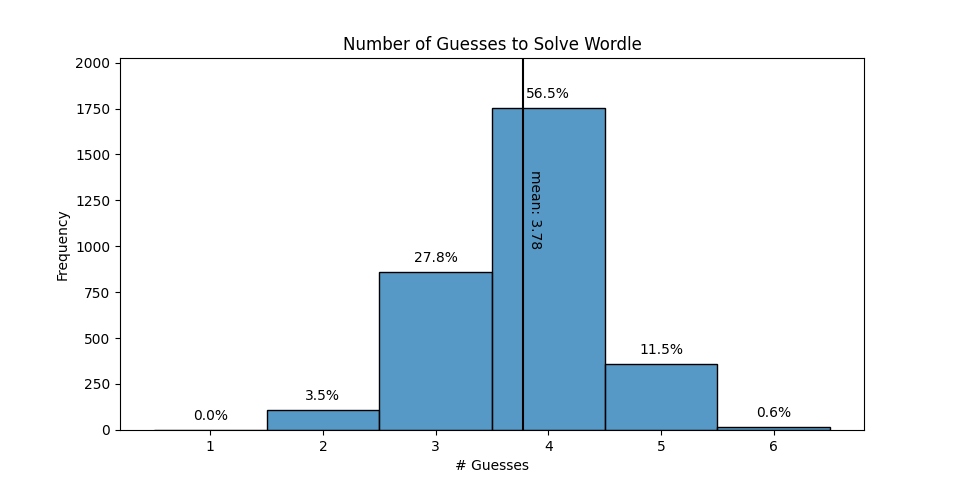
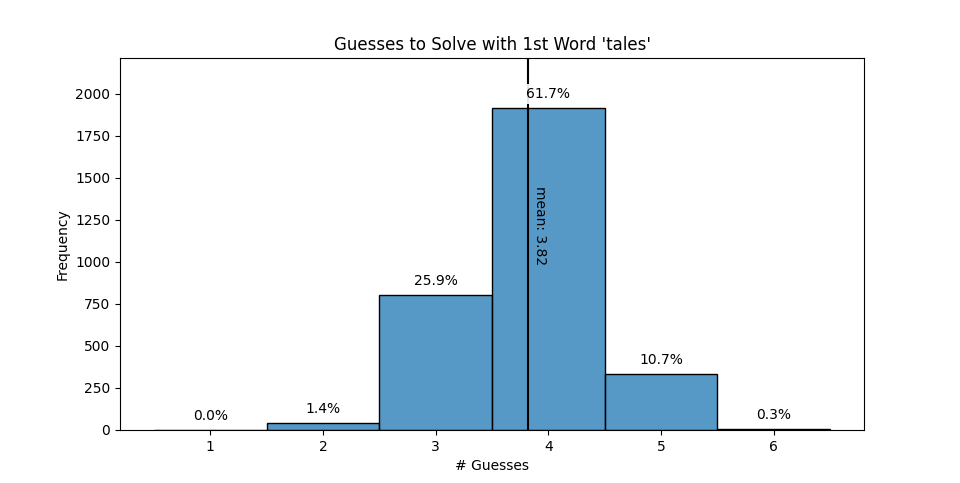
average num guess analysis

diff --git a/plot_soln_depth.py b/plot_soln_depth.py
@@ -1,0 +1,133 @@
+from utils import *
+import seaborn as sns
+import matplotlib.pyplot as plt
+import numpy as np
+import json
+
+dict5 = []
+with open('assets/words.txt') as f:
+    for line in f:
+        dict5.append(line.strip().split(',')[0])
+
+soln_depth_list = []
+with open('data/soln_step_lengths.json', 'r') as file:
+    for line in file:
+        soln_depth_list.append(json.loads(line))
+
+soln_depth_dict = {key: depth for key,depth in soln_depth_list}
+
+mean_depths = {}
+for w in dict5:
+    depths_count = soln_depth_dict[w]
+
+    depths_list = [([int(i)] * depths_count[i]) for i in depths_count]
+    depths = []
+    for d in depths_list:
+        depths.extend(d)
+    mean_depth = np.mean(depths)
+    mean_depths[w] = mean_depth
+
+best_worst_case_words = []
+depth_7_words = []
+six_size = len(dict5)
+for w in dict5:
+    depths_count = soln_depth_dict[w]
+    if '7' in depths_count:
+        depth_7_words.append(w)
+    if '6' in depths_count:
+        six_depth = depths_count['6']
+        if six_depth == six_size:
+            best_worst_case_words.append(w)
+        if six_depth < six_size:
+            six_size = six_depth
+            best_worst_case_words = [w]
+
+print("Best words by worst case")
+for w in best_worst_case_words:
+    print([w, soln_depth_dict[w], mean_depths[w]])
+
+print("Best words on average")
+words_by_mean_depth = sorted(mean_depths.items(), key=lambda item: item[1])
+for w in words_by_mean_depth[0:10]:
+    print([w[0], soln_depth_dict[w[0]], mean_depths[w[0]]])
+
+print("Words that don't win")
+print(str(len(depth_7_words))+" of "+str(len(dict5)))
+for w in depth_7_words:
+    print([w, soln_depth_dict[w], mean_depths[w]])
+
+print("Worst words on average")
+for w in words_by_mean_depth[-10:]:
+    print([w[0], soln_depth_dict[w[0]], mean_depths[w[0]]])
+
+plot_word = words_by_mean_depth[0][0]
+depths_count = soln_depth_dict[plot_word]
+
+depths_list = [([int(i)] * depths_count[i]) for i in depths_count]
+depths = []
+for d in depths_list:
+    depths.extend(d)
+mean_depth = np.mean(depths)
+
+plt.figure(figsize=(10, 6))
+hist = sns.histplot(data=depths, bins=6, discrete=True)
+y_bottom, y_top = hist.get_ylim()
+padding = (y_top - y_bottom) * 0.1
+hist.set_ylim(y_bottom, y_top + padding)
+text_place = np.mean(sorted(hist.get_yticks())[0:-1])
+
+plt.axvline(mean_depth, 0, 1, color='black')
+hist.annotate("mean: "+'{0:.2f}'.format(mean_depth), xy=(mean_depth + 0.1,text_place), horizontalalignment = 'center', rotation=270)
+for p in hist.patches:
+    number_label = int(p.get_height())/len(depths)
+    hist.annotate(
+        f'{number_label:.1%}',
+        (p.get_x() + p.get_width() / 2., p.get_height()),
+        ha='center',
+        va='center',
+        bbox=dict(facecolor='white', alpha=0.9, edgecolor='white', linewidth=0, pad=2),
+        xytext=(0, 10),
+        textcoords='offset points'
+    )
+
+plt.title("Guesses to Solve with 1st Word '"+plot_word+"'")
+plt.xlabel('# Guesses')
+plt.ylabel('Frequency')
+plt.grid(False)
+plt.show()
+
+plot_word = 'queue'
+depths_count = soln_depth_dict[plot_word]
+
+depths_list = [([int(i)] * depths_count[i]) for i in depths_count]
+depths = []
+for d in depths_list:
+    depths.extend(d)
+mean_depth = np.mean(depths)
+
+plt.figure(figsize=(10, 6))
+hist = sns.histplot(data=depths, bins=6, discrete=True)
+y_bottom, y_top = hist.get_ylim()
+padding = (y_top - y_bottom) * 0.1
+hist.set_ylim(y_bottom, y_top + padding)
+text_place = np.mean(sorted(hist.get_yticks())[0:-1])
+
+plt.axvline(mean_depth, 0, 1, color='black')
+hist.annotate("mean: "+'{0:.2f}'.format(mean_depth), xy=(mean_depth + 0.1,text_place), horizontalalignment = 'center', rotation=270)
+for p in hist.patches:
+    number_label = int(p.get_height())/len(depths)
+    hist.annotate(
+        f'{number_label:.1%}',
+        (p.get_x() + p.get_width() / 2., p.get_height()),
+        ha='center',
+        va='center',
+        bbox=dict(facecolor='white', alpha=0.9, edgecolor='white', linewidth=0, pad=2),
+        xytext=(0, 10),
+        textcoords='offset points'
+    )
+
+plt.title("Guesses to Solve with 1st Word '"+plot_word+"'")
+plt.xlabel('# Guesses')
+plt.ylabel('Frequency')
+plt.grid(False)
+plt.show()

diff --git a/compute_depth_hist.py b/compute_depth_hist.py
@@ -10,21 +10,6 @@ with open('assets/words.txt') as f:
     for line in f:
         dict5.append(line.strip().split(',')[0])
 
-## solution length histogram
-#soln_hists = []
-#for solve_word in dict5[0:3]:
-#    all_solns = []
-#    for word in dict5:
-#        soln = wordle_solve(word, solve_word)
-#        all_solns.append(soln)
-#    
-#    depths = []
-#    for soln in all_solns:
-#        depths.append(len(soln))
-#    
-#    soln_counts = dict(sorted(count_occurrences(depths).items()))
-#    soln_hists.append(soln_counts)
-
 def compute_depth(solve_word):
     all_solns = []
     for word in dict5:

diff --git a/README.md b/README.md
@@ -19,33 +19,14 @@ The app is hosted on <a href="https://www.pythonanywhere.com/">Python Anywhere</
 
 For a dictionary, I used the 5 letter words contained both in Wikipedia's list of 100,000 most common words and an English dictionary, resulting in 3103 possibilities. Some words are clearly missing (looking at you, "pesto"), but this seems to be a nice size to balance computation time and fun.
 
-## Some Interesting Questions Answered
-Each word is scored as a first guess in data/word_scores.csv (lower is better). Some of the best starting words are...
-<details>
-<summary>Spoiler warning</summary>
-reals, aloes, tails, roles, and rates
-</details>
-
-Some of the worst starting words are...
-<details>
-<summary>Spoiler warning</summary>
-fuzzy, mummy, puppy, buggy, gummy
-</details>
-
-The number of guesses for each word using this algorithm is recorded in data/word_depth.csv (zero indexing). A histogram of this data is shown below. With the optimal starting word, every hidden word found in less than 6 guesses, requiring 3.78 guesses on average! The most common number of guesses needed is 4 by a considerable margin.
-
-Some of the more difficult hidden words include...
-<details>
-  <summary>Spoiler warning</summary>
-  eaves, fades, gapes, gazes, and wages
-</details>
-
-<div align="center">
-<img src="data/word_depth_distribution.png" alt="word_depth" width="800" height="auto" />
-</div>
+Find a brief analysis of the best and worst starting words on <a href="zacharysparrow.github.io/projects/the_wordle_bot/">my website</a>.
 
 ## License
 Distributed under the MIT license. See LICENSE.txt for more information.
 
 ## Disclaimer
 This repository is not affiliated with the official Wordle site or the New York Times.
+
+## TODO
+- update app to use tree lookup
+- update app to let user input instead of give word
